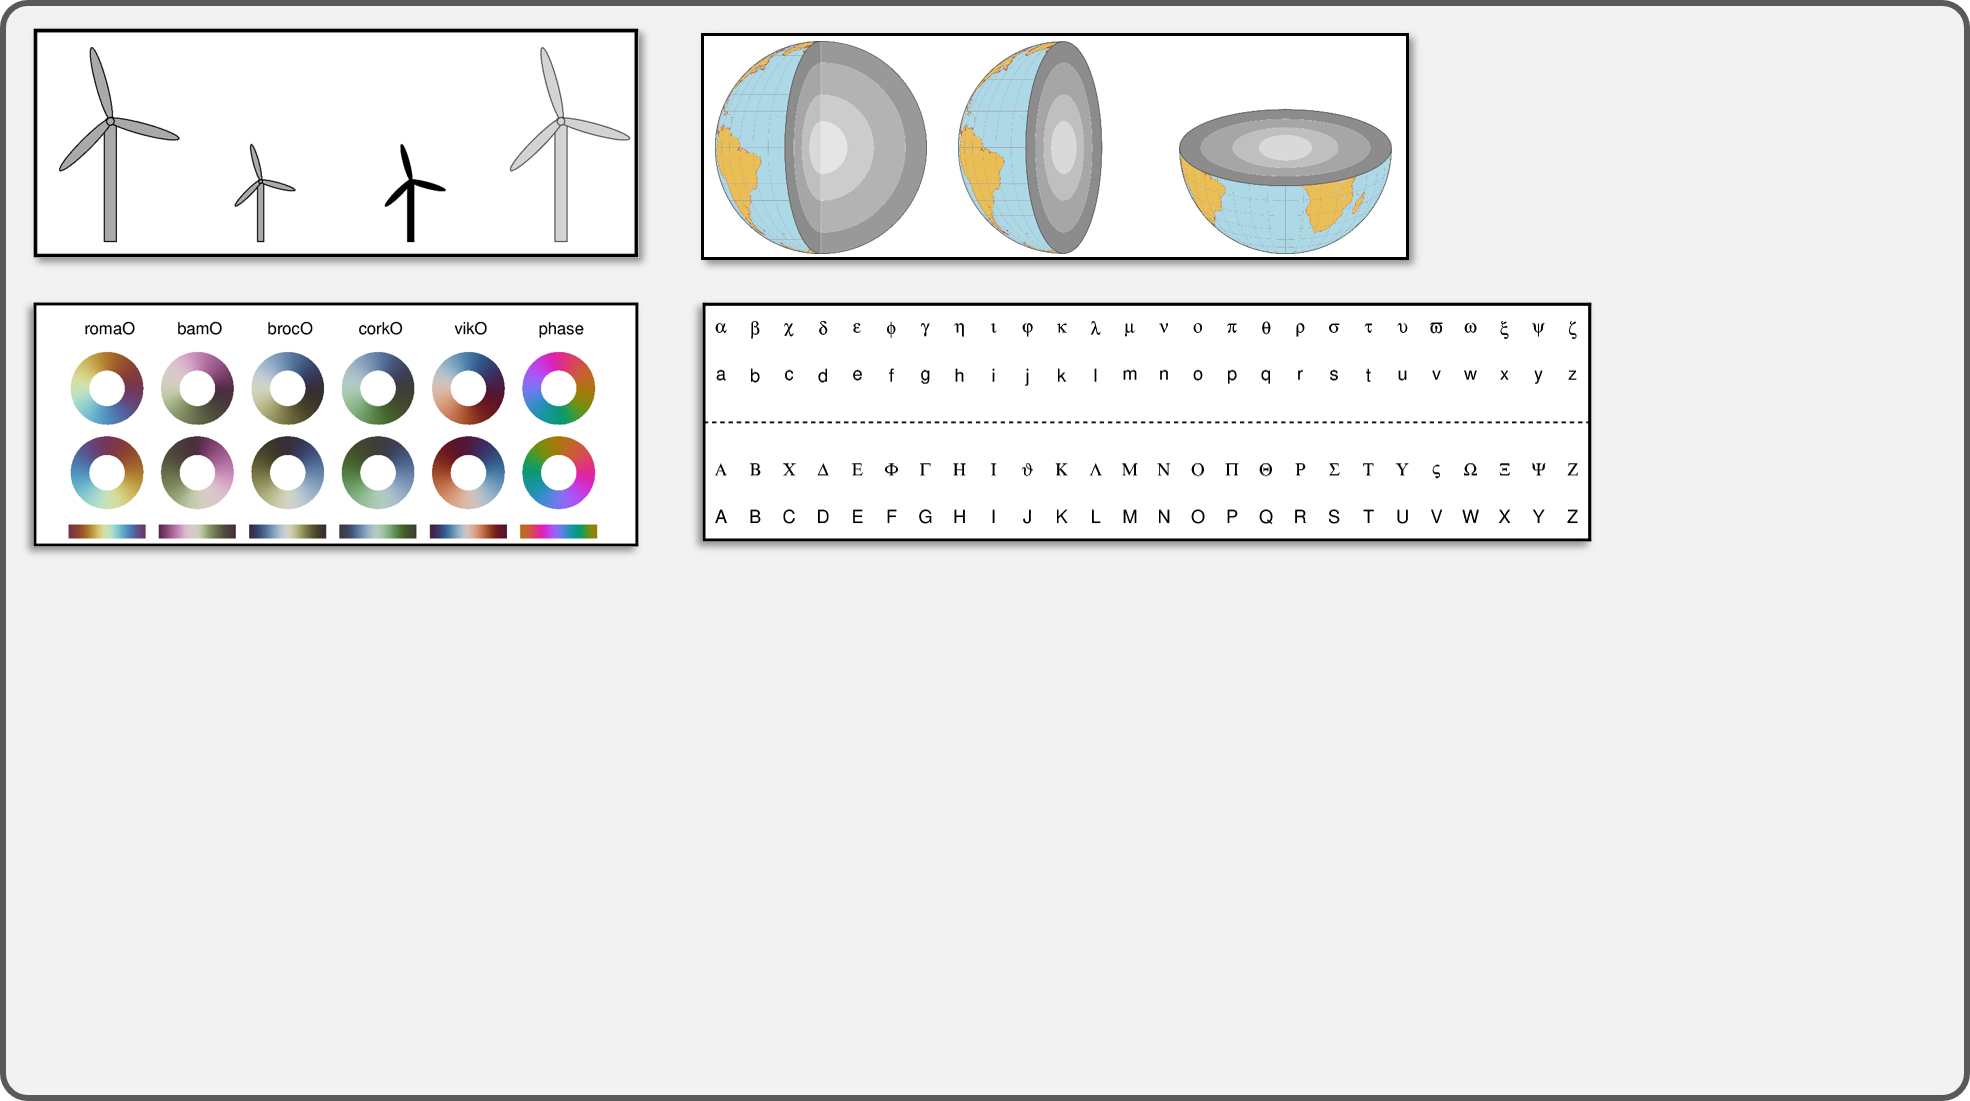
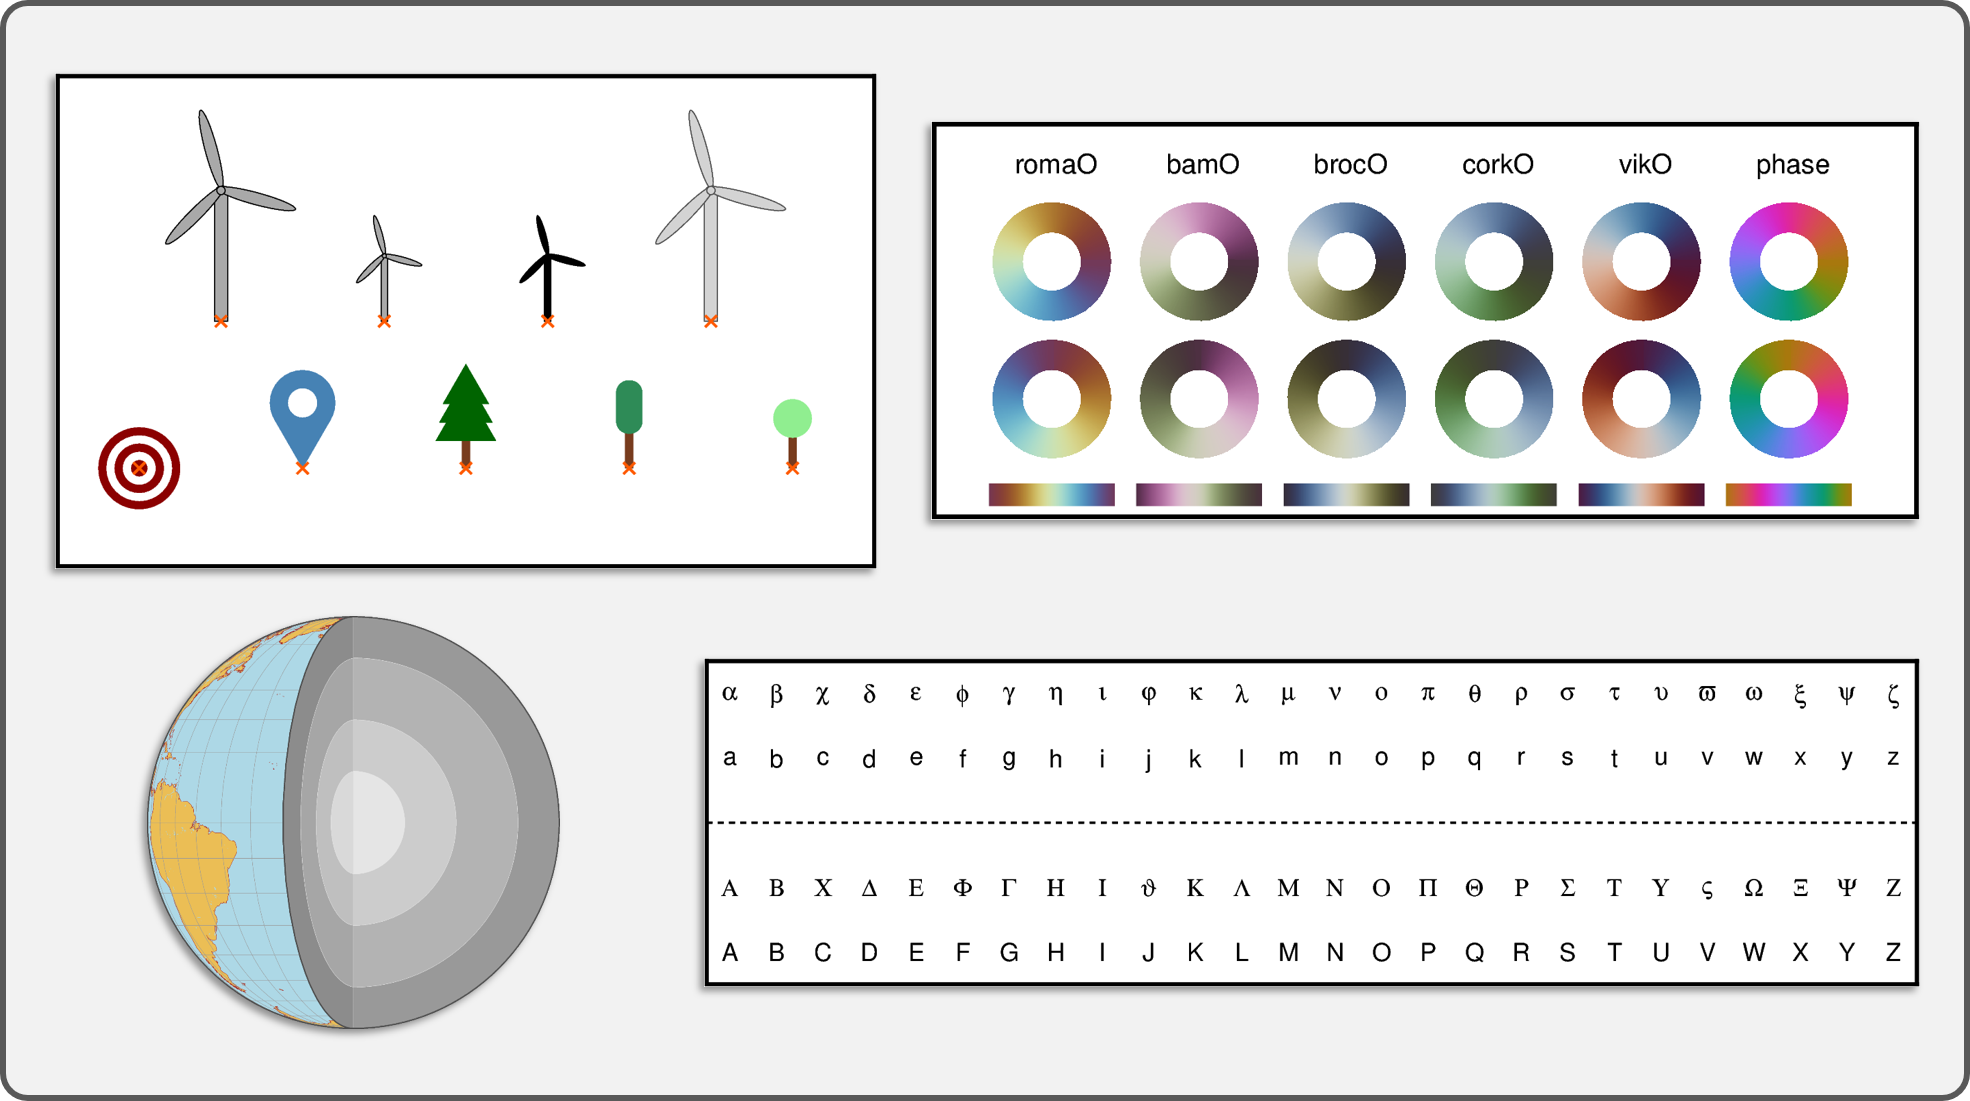
000_general_stuff/01_custom_symbols: Add more custom symbols (#95)

diff --git a/000_general_stuff/01_custom_symbols/custom_symbols.py b/000_general_stuff/01_custom_symbols/custom_symbols.py
@@ -1,0 +1,52 @@
+# #############################################################################
+# Plot custom symbols with PyGMT
+# - General syntax of the argument passed to the "style" parameter (-S flag):
+#   k<name_of_symbol_file>/<size_of_symbol>
+# - Wind turbine symbol file: windturbine_yf.def (included in this folder)
+# - Please note: Custom symbols cannot be used in a auto-legend yet
+# -----------------------------------------------------------------------------
+# Macro language to set up own custom symbols: GMT documentation at
+#   https://docs.generic-mapping-tools.org/6.6/reference/custom-symbols.html#the-macro-language
+# -----------------------------------------------------------------------------
+# History
+# - Created: 2024/05/16
+# - Updated: 2025/08/02 - Add more symbols
+# -----------------------------------------------------------------------------
+# Versions
+# - PyGMT v0.16.0 -> https://www.pygmt.org/v0.16.0/ | https://www.pygmt.org/
+# - GMT 6.5.0 -> https://www.generic-mapping-tools.org/
+# -----------------------------------------------------------------------------
+# Contact
+# - Author: Yvonne Fröhlich
+# - ORCID: https://orcid.org/0000-0002-8566-0619
+# - GitHub: https://github.com/yvonnefroehlich/gmt-pygmt-plotting
+# #############################################################################
+
+
+import pygmt as gmt
+
+
+fig = gmt.Figure()
+fig.basemap(region=[-5, 5, -2, 3], projection="X10c/6c", frame=0)
+
+fig.plot(x=-3, y=0.5, style="kwindturbine_yf.def/1c", fill="darkgray", pen="black")
+fig.plot(x=-1, y=0.5, style="kwindturbine_yf.def/0.5c", fill="darkgray", pen="black")
+fig.plot(x=1, y=0.5, style="kwindturbine_yf.def/0.5c", fill="black", pen="black")
+fig.plot(x=3, y=0.5, style="kwindturbine_yf.def/1c", fill="lightgray", pen="gray30")
+
+fig.plot(x=-4, y=-1, style="kearthquake_yf.def/1c", fill="darkred")
+fig.plot(x=-2, y=-1, style="kmarker_yf.def/1c", fill="steelblue")
+fig.plot(x=0, y=-1, style="kpinetree_yf.def/1c", fill="darkgreen")
+fig.plot(x=2, y=-1, style="kpoplar_yf.def/1c", fill="seagreen")
+fig.plot(x=4, y=-1, style="ktree_circle_yf.def/1c", fill="lightgreen")
+
+# Mark plotting points
+fig.plot(
+    x=[-3, -1, 1, 3, -4, -2, 0, 2, 4],
+    y=[0.5, 0.5, 0.5, 0.5, -1, -1, -1, -1, -1],
+    style="x0.2c",
+    fill="255/90/0",
+)
+
+fig.show()
+# fig.savefig(fname="custom_symbols.png")
